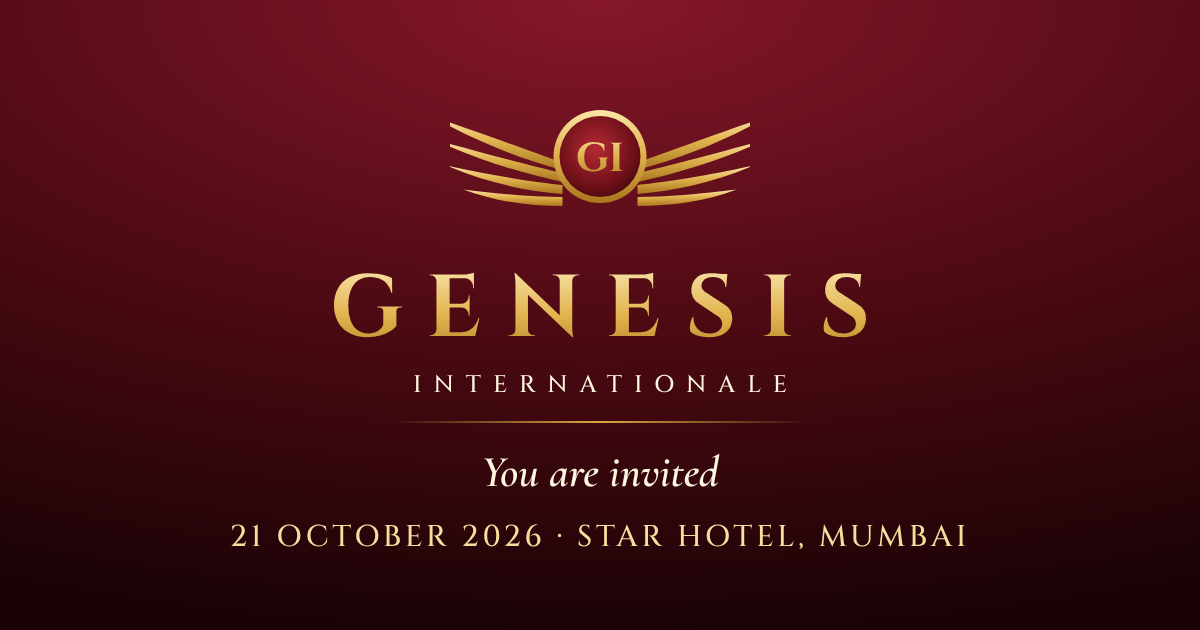
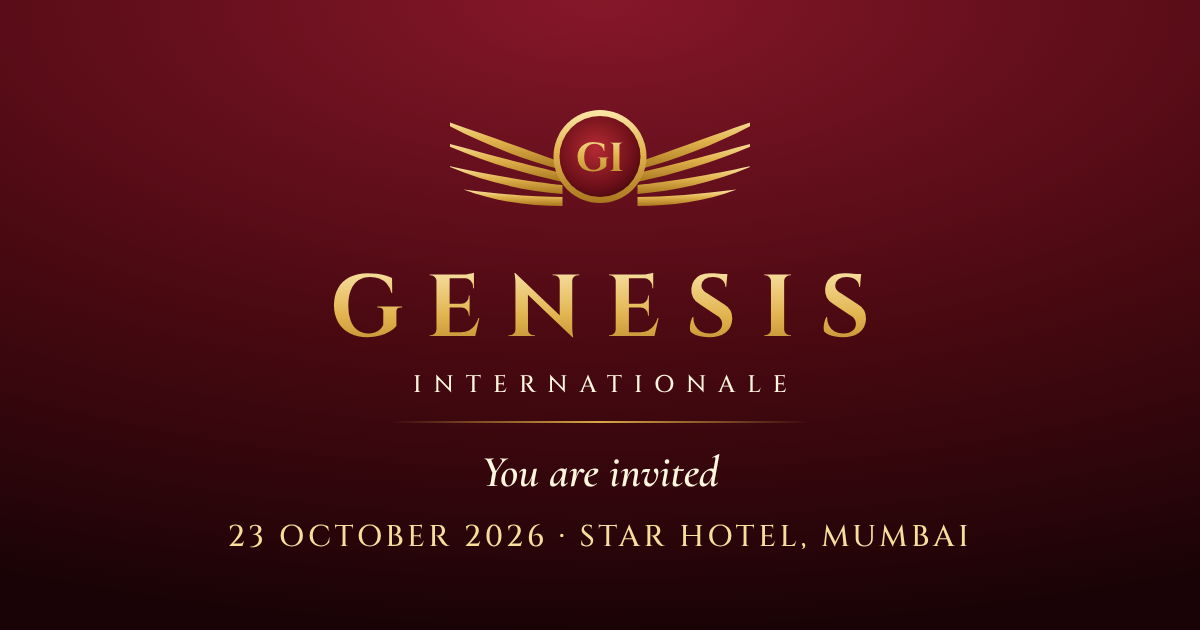
Genesis invitation: meeting on Friday 23 Oct, return 24 Oct, members called 26 Oct
Claude-Session: https://claude.ai/code/session_015r5uWW3GTnjGDAxuRrE2S8

Changed region(s): [[0.185, 0.8143, 0.8017, 0.8746]]

diff --git a/genesis-invitation/src/data/invitation.ts b/genesis-invitation/src/data/invitation.ts
@@ -2,7 +2,7 @@
 
 export interface EventDetails {
   title: string;
-  dateLabel: string; // e.g. "Wednesday"
+  dateLabel: string; // e.g. "Friday"
   day: string;
   monthYear: string;
   weekday: string;
@@ -46,24 +46,24 @@ export interface MemberPanel {
 
 export const event: EventDetails = {
   title: 'Genesis Internationale – Official Meeting',
-  dateLabel: 'Wednesday',
-  day: '21',
+  dateLabel: 'Friday',
+  day: '23',
   monthYear: 'October 2026',
-  weekday: 'Wednesday',
+  weekday: 'Friday',
   timeLabel: '12:00 pm to 2:30 pm',
   venue: 'Star Hotel',
   city: 'Mumbai',
   venueMapUrl: '',
   noticeDate: '17/10/2026',
-  startISO: '2026-10-21T12:00:00',
-  endISO: '2026-10-21T14:30:00',
+  startISO: '2026-10-23T12:00:00',
+  endISO: '2026-10-23T14:30:00',
 };
 
 export const welcomeLine = 'You are warmly welcomed to our official meeting.';
 
 // Wrap a phrase in **double asterisks** to highlight it in gold.
 export const agenda: string[] = [
-  'An agenda is scheduled for **21st October 2026** at a **Star Hotel, Mumbai**. The meeting will be held for around 2 to 3 hours (**12:00 pm to 2:30 pm**), with all the notable people mentioned below.',
+  'An agenda is scheduled for **23rd October 2026** at a **Star Hotel, Mumbai**. The meeting will be held for around 2 to 3 hours (**12:00 pm to 2:30 pm**), with all the notable people mentioned below.',
   'The context of the meeting is about the **receipt of the final order copy** regarding the fund transaction, and also about the **allocation and distribution of funds** to each individual under our company.',
 ];
 
@@ -103,12 +103,12 @@ export const peopleGroups: PersonGroup[] = [
 
 export const timeline: TimelineEntry[] = [
   { date: '17 Oct', title: 'Notice of meeting and agenda issued' },
-  { date: '21 Oct', title: 'Meeting in Mumbai', note: '12:00 pm to 2:30 pm, Star Hotel' },
+  { date: '23 Oct', title: 'Meeting in Mumbai', note: '12:00 pm to 2:30 pm, Star Hotel' },
   {
-    date: '23 Oct',
+    date: '24 Oct',
     title: 'Return to Tamil Nadu',
     quote:
-      'After successfully completing that meetup, I’ll mostly return to Tamil Nadu by 23rd October 2026. By that time, all of our company members will come to know the result and success story of our 24 years of hustle.',
+      'After successfully completing that meetup, I’ll mostly return to Tamil Nadu by 24th October 2026. By that time, all of our company members will come to know the result and success story of our 24 years of hustle.',
   },
   {
     date: '26 Oct',
@@ -172,4 +172,4 @@ export const signature = { with: 'With faith,', name: 'P Ravikumar', company: 'G
 
 export const footer = 'Genesis Internationale · Chennai, Tamil Nadu';
 
-export const shareText = 'You are warmly invited to the Genesis Internationale official meeting, 21 October 2026, Star Hotel, Mumbai.';
+export const shareText = 'You are warmly invited to the Genesis Internationale official meeting, 23 October 2026, Star Hotel, Mumbai.';

diff --git a/genesis-invitation/index.html b/genesis-invitation/index.html
@@ -3,19 +3,19 @@
   <head>
     <meta charset="UTF-8" />
     <meta name="viewport" content="width=device-width, initial-scale=1, viewport-fit=cover" />
-    <title>Genesis Internationale – Invitation, 21 October 2026</title>
-    <meta name="description" content="You are warmly welcomed to the official meeting of Genesis Internationale on Wednesday, 21 October 2026, 12:00 pm to 2:30 pm, Star Hotel, Mumbai." />
+    <title>Genesis Internationale – Invitation, 23 October 2026</title>
+    <meta name="description" content="You are warmly welcomed to the official meeting of Genesis Internationale on Friday, 23 October 2026, 12:00 pm to 2:30 pm, Star Hotel, Mumbai." />
     <meta name="theme-color" content="#3D070D" />
     <link rel="icon" type="image/svg+xml" href="/favicon.svg" />
     <meta property="og:type" content="website" />
-    <meta property="og:title" content="Genesis Internationale – Invitation, 21 October 2026" />
-    <meta property="og:description" content="You are invited. Wednesday, 21 October 2026 · Star Hotel, Mumbai." />
+    <meta property="og:title" content="Genesis Internationale – Invitation, 23 October 2026" />
+    <meta property="og:description" content="You are invited. Friday, 23 October 2026 · Star Hotel, Mumbai." />
     <meta property="og:image" content="/og.png" />
     <meta property="og:image:width" content="1200" />
     <meta property="og:image:height" content="630" />
     <meta name="twitter:card" content="summary_large_image" />
-    <meta name="twitter:title" content="Genesis Internationale – Invitation, 21 October 2026" />
-    <meta name="twitter:description" content="You are invited. Wednesday, 21 October 2026 · Star Hotel, Mumbai." />
+    <meta name="twitter:title" content="Genesis Internationale – Invitation, 23 October 2026" />
+    <meta name="twitter:description" content="You are invited. Friday, 23 October 2026 · Star Hotel, Mumbai." />
     <meta name="twitter:image" content="/og.png" />
     <link rel="preconnect" href="https://fonts.googleapis.com" />
     <link rel="preconnect" href="https://fonts.gstatic.com" crossorigin />
